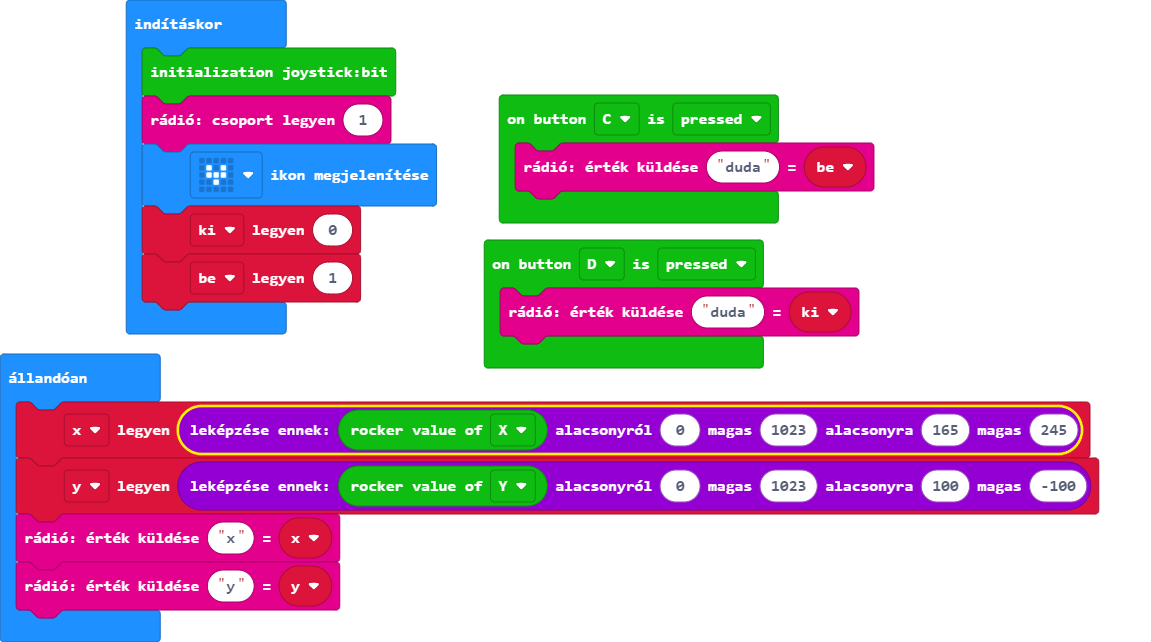
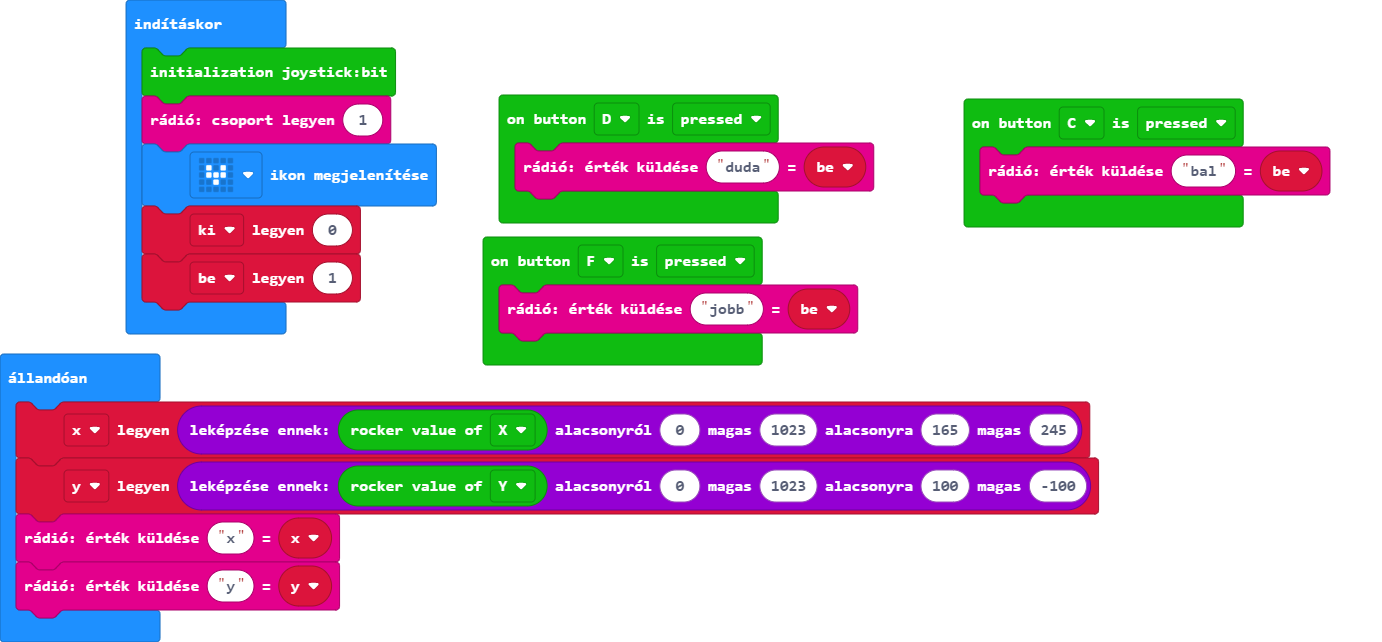
main.blocks, main.ts frissítése

Changed region(s): [[0.0912, 0.0, 0.9731, 0.5919], [0.0, 0.5296, 0.9731, 1.0]]

diff --git a/main.ts b/main.ts
@@ -1,17 +1,19 @@
+joystickbit.onButtonEvent(joystickbit.JoystickBitPin.P15, joystickbit.ButtonType.down, function () {
+    radio.sendValue("jobb", be)
+})
 joystickbit.onButtonEvent(joystickbit.JoystickBitPin.P13, joystickbit.ButtonType.down, function () {
-    radio.sendValue("duda", ki)
+    radio.sendValue("duda", be)
 })
 joystickbit.onButtonEvent(joystickbit.JoystickBitPin.P12, joystickbit.ButtonType.down, function () {
-    radio.sendValue("duda", be)
+    radio.sendValue("bal", be)
 })
 let y = 0
 let x = 0
 let be = 0
-let ki = 0
 joystickbit.initJoystickBit()
 radio.setGroup(1)
 basic.showIcon(IconNames.SmallHeart)
-ki = 0
+let ki = 0
 be = 1
 basic.forever(function () {
     x = Math.map(joystickbit.getRockerValue(joystickbit.rockerType.X), 0, 1023, 165, 245)
